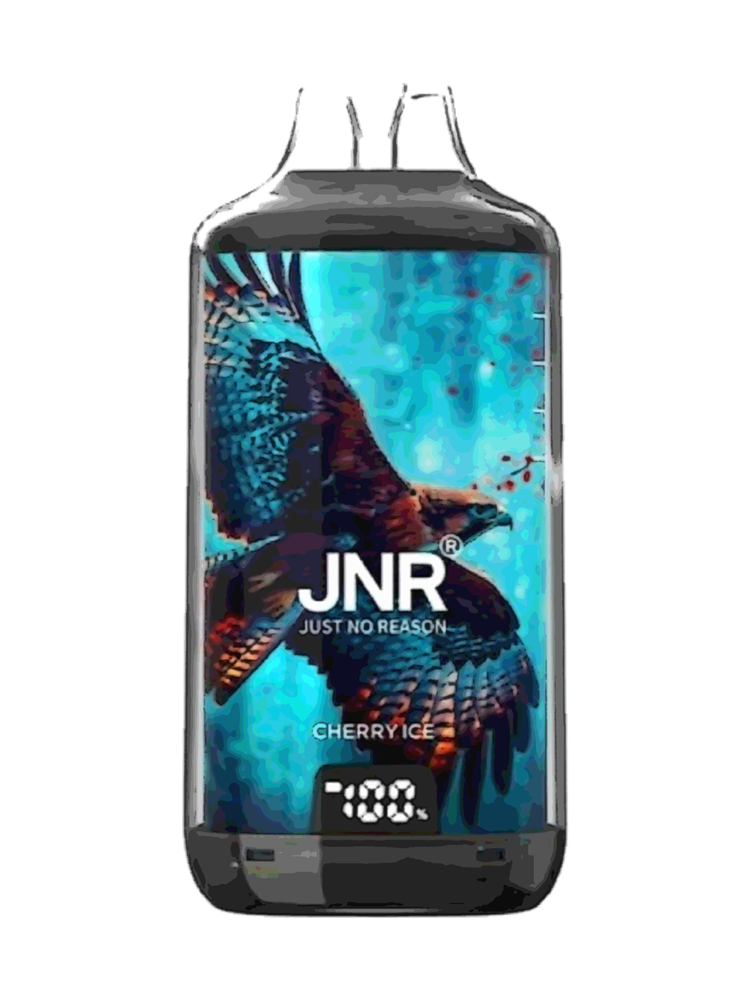
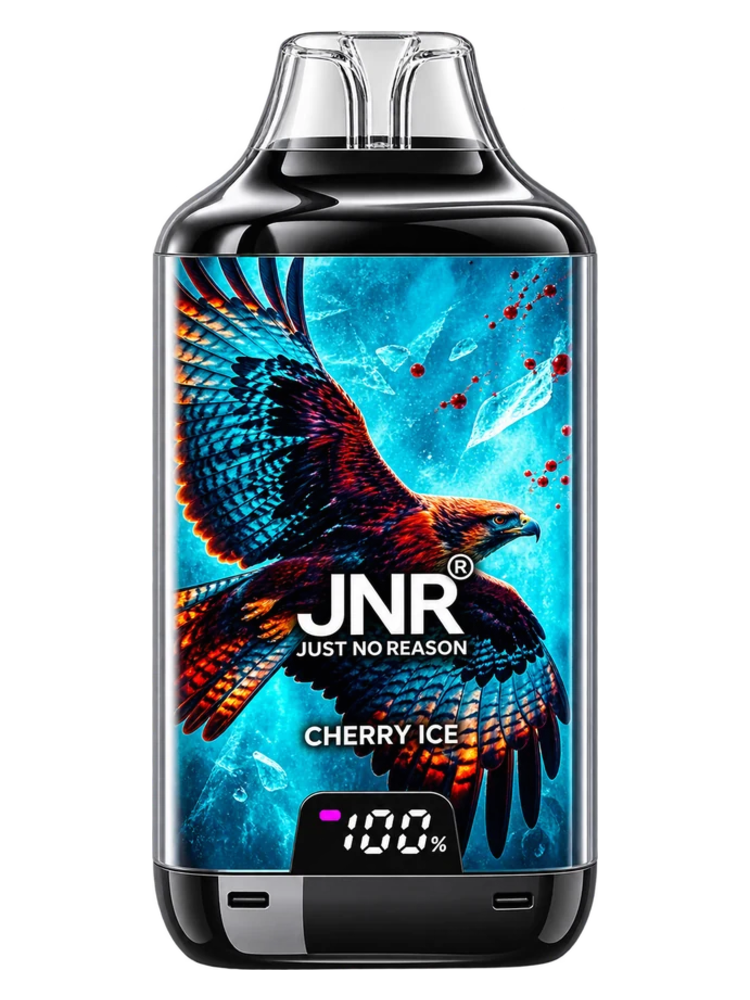
news image derniere

diff --git a/js/main.js b/js/main.js
@@ -3,7 +3,7 @@ const PRICE=13;                 // prix unitaire en euros (modifiable)
 const CONTACT_EMAIL='';         // ← mettez votre adresse e-mail de contact ici
 const SALES_BASE={};            // ventes de départ par goût, ex. {'cherry-ice':12,'luv-66':7}
 const RAW=[
-"Strawberry Kiwi|#e92420|#efa639|Fraise sucrée et kiwi acidulé, un duo vif et rafraîchissant.",
+"Strawberry Kiwi|#e92720|#efa939|Fraise sucrée et kiwi acidulé, un duo vif et rafraîchissant.",
 "Mixed Berry|#209ce9|#ef4239|Assortiment de baies rouges et bleues, doux et fruité.",
 "Strawberry Watermelon|#e92420|#efa639|Fraise mûre et pastèque juteuse, l'équilibre estival.",
 "Peach Berry|#e92720|#efa939|Pêche tendre mêlée à des baies sauvages.",
@@ -13,7 +13,7 @@ const RAW=[
 "Mango Passion Fruit|#20e9bd|#39acef|Mangue ensoleillée et fruit de la passion.",
 "Watermelon Mango Peach|#e92720|#efa939|Trio gourmand de pastèque, mangue et pêche.",
 "Blueberry Raspberry Cherry|#20c1e9|#394eef|Myrtille, framboise et cerise : le trio des baies.",
-"Cherry Ice|#20d8e9|#3976ef|Cerise éclatante sur fond de fraîcheur glacée.",
+"Cherry Ice|#20bae9|#395aef|Cerise éclatante sur fond de fraîcheur glacée.",
 "Watermelon Ice|#e92420|#efa639|Pastèque désaltérante et sensation glacée.",
 "Watermelon Bubblegum|#e92720|#efa939|Pastèque sucrée aux notes de chewing-gum.",
 "Cherry Watermelon Freeze|#e92a20|#3969ef|Cerise et pastèque en version très fraîche.",
@@ -30,7 +30,7 @@ const saveCatalog=c=>store.set('jnr_catalog',c);
 const PHOTOS=new Set(['strawberry-kiwi','mixed-berry','strawberry-watermelon','peach-berry','dragon-ice','blackberry-red-raspberry','blueberry-pomegranate-ice','mango-passion-fruit','watermelon-mango-peach','blueberry-raspberry-cherry','cherry-ice','watermelon-ice','watermelon-bubblegum','cherry-watermelon-freeze','blueberry-sour-raspberry','fizzy-cherry-cola','luv-66']);
 const isPhoto=p=>!p.img&&PHOTOS.has(p.id);
 /* IMG_V : augmentez ce numéro à chaque remplacement d'image pour forcer les navigateurs à recharger */
-const IMG_V=5;
+const IMG_V=6;
 const imgOf=p=>p.img||`images/produits/${p.id}.${PHOTOS.has(p.id)?'png':'svg'}?v=${IMG_V}`;
 const imgCls=p=>isPhoto(p)?' class="photo"':'';
 /* Chaque puff est vendue avec 2 recharges du même goût, ajoutées automatiquement */
